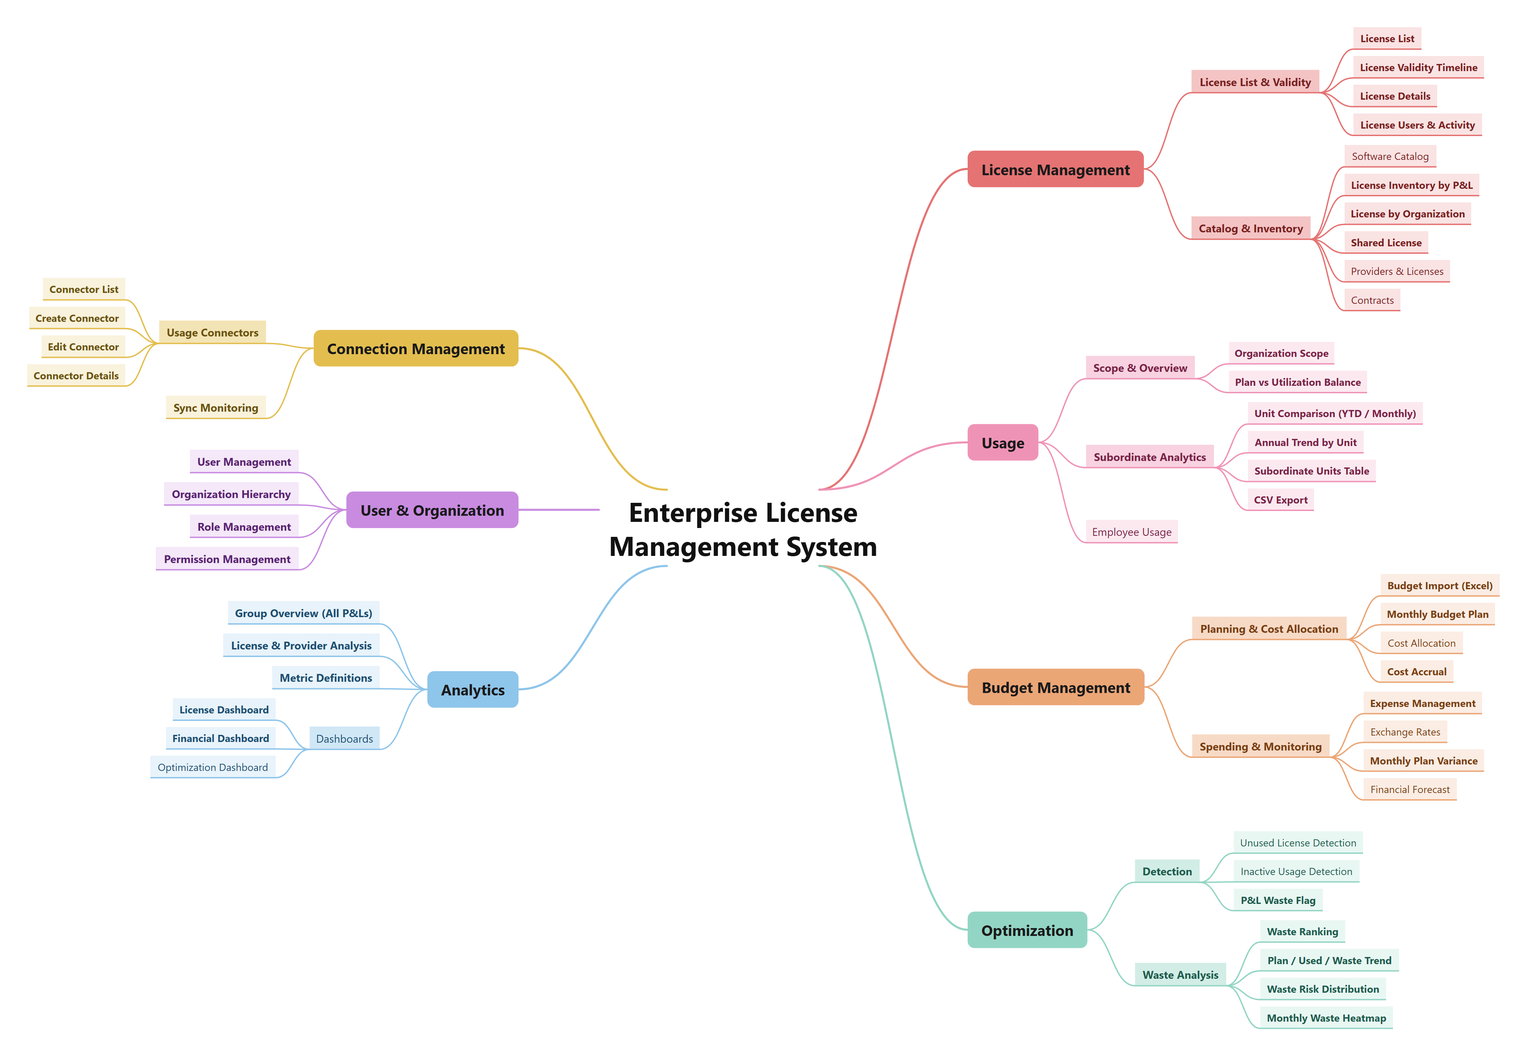
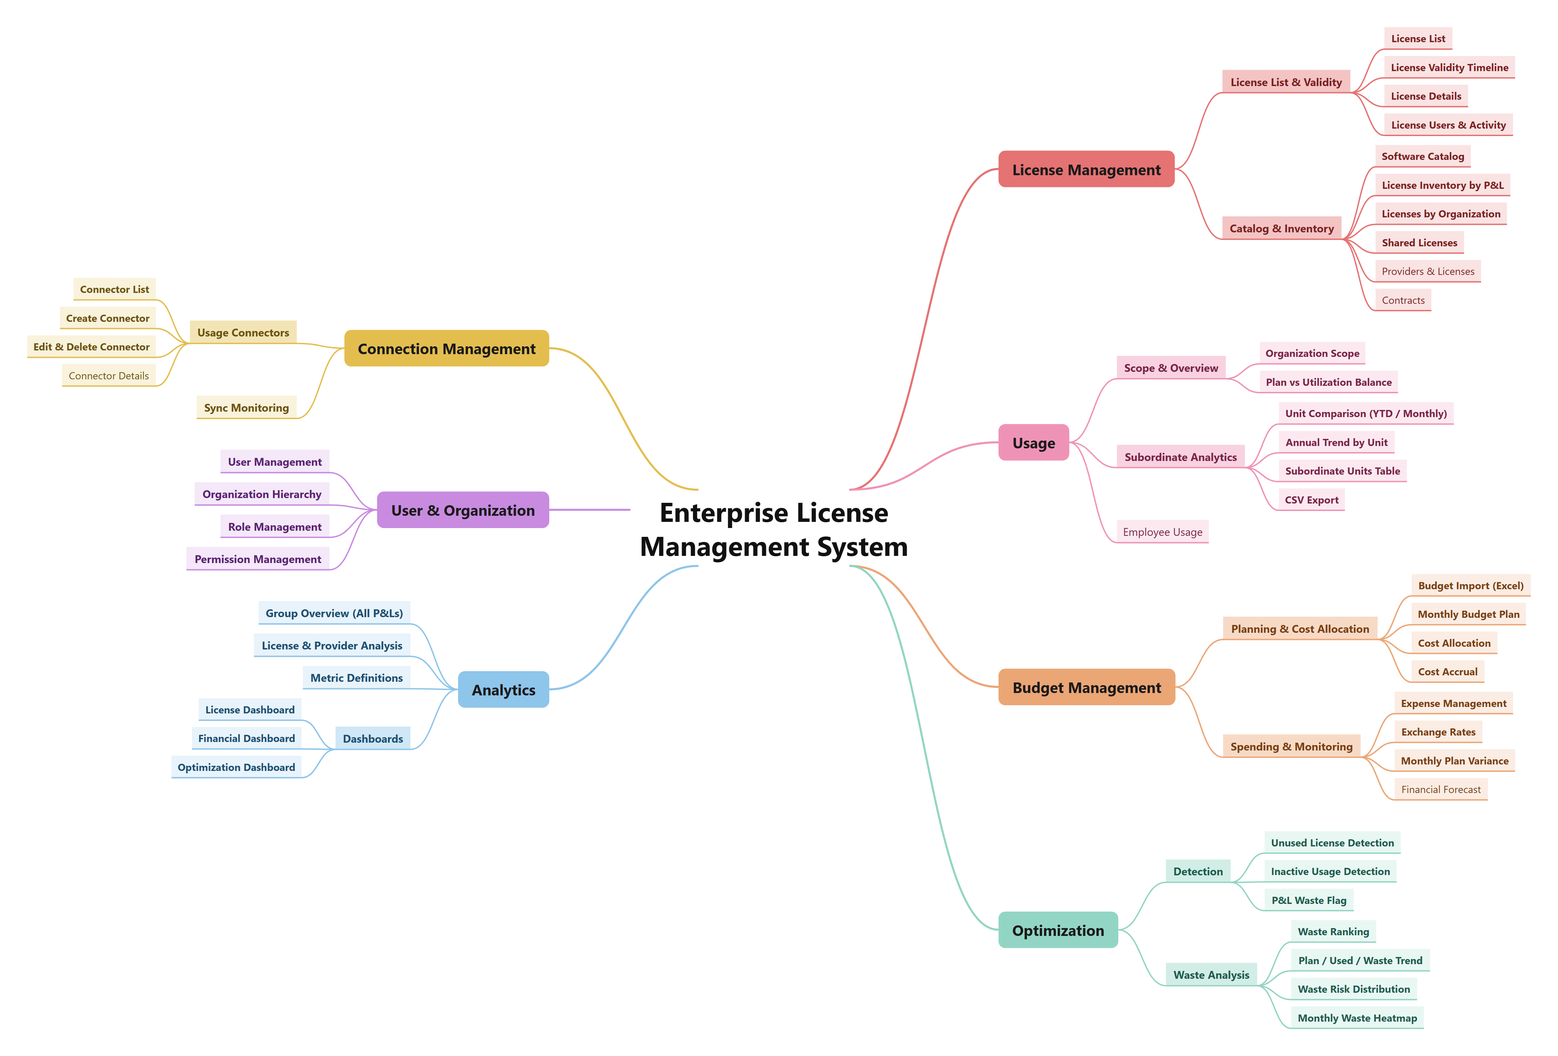
docs: align the mind map with the backlog and the use case docs
The "key" label on the mind map no longer matched the backlog priorities:
five Must-have leaves were plain and the Could-have Connector Details was
bold. Bold now means Must- or Should-have and plain means Could-have, set
as an XMind bold style instead of a "key" label, so XMind shows the same
emphasis as the exported image. Three leaves follow their use case names:
Licenses by Organization, Shared Licenses, Edit & Delete Connector.

The epic table in docs/01 follows the map's structure, the bold meaning is
written down, and README and docs/03 say the self-service stories US23 and
US24 are not on the map. The use case tables and specifications in README
and docs/02, and the feature rows in docs/08, follow the map order. The
collection coverage note no longer cites the parked UC12 and retired UC17.

diff --git a/docs/diagrams/ve_mindmap.py b/docs/diagrams/ve_mindmap.py
@@ -3,7 +3,8 @@
 Chạy trong thư mục docs/diagrams:  python ve_mindmap.py
 Ra: docs/mindmap.png (render SVG bằng Chrome headless, tỉ lệ 2x).
 Bố cục theo kiểu XMind Map: nửa đầu các nhánh bên phải (trên xuống), phần còn lại bên trái (dưới lên),
-nên đọc theo chiều kim đồng hồ đúng thứ tự trong file. Topic có nhãn 'key' được tô đậm.
+nên đọc theo chiều kim đồng hồ đúng thứ tự trong file. Topic in đậm trong XMind (fo:font-weight bold) cũng in đậm
+trong ảnh: lá in đậm là use case Must/Should-have, lá chữ thường là Could-have (docs/03-invest-requirements.md).
 Cần Windows (font Segoe UI) và Chrome.
 """
 import html
@@ -52,7 +53,7 @@ class Node:
     def __init__(self, topic, level):
         self.title = topic.get('title', '')
         self.level = min(level, 3)
-        self.bold = level <= 1 or 'key' in topic.get('labels', [])
+        self.bold = level <= 1 or topic.get('style', {}).get('properties', {}).get('fo:font-weight') == 'bold'
         self.children = [Node(t, level + 1) for t in topic.get('children', {}).get('attached', [])]
         size = SIZE[self.level]
         if self.level == 0:

diff --git a/docs/02-use-cases.md b/docs/02-use-cases.md
@@ -122,16 +122,16 @@ The agreed use cases, by mind-map branch. *Demo:* D1 latest Usage & Connector de
 | ID | Use case | What the user can do | Actors | Demo |
 |---|---|---|---|---|
 | | **License Management** | | | |
-| UC01 | Manage Software Catalog | Keep the list of software with its category, and map each license name the connectors report to a software | Staff | — |
 | UC57 | View License List | See every license of the group with its monthly cost, company, allocated / purchased and days to expiry; search, filter by company and expiry, sort, page | Manager | D1 |
 | UC58 | View License Validity Timeline | See each license term on a six-month timeline, move it month by month or back to today, spot licenses about to expire | Manager | D1 |
 | UC59 | View License Details | Open a license: cost, start and expiry, unallocated or over-allocated seats | Manager | D1 |
 | UC61 | View License Users and Activity | See who holds a license, who is active or inactive, when each last used it and how often; filter, search, export | Manager | R |
-| UC02 | View Providers and Licenses | See the providers the group buys from and, per provider, its licenses and the companies using them | Manager | — |
-| UC04 | View Contracts | See license terms — start, expiry, auto-renew, cost — and those renewing within 30 or 60 days | Manager | — |
+| UC01 | Manage Software Catalog | Keep the list of software with its category, and map each license name the connectors report to a software | Staff | — |
 | UC27 | View License Inventory by P&L | Pick a P&L and see every license it reports, grouped by provider | Manager, Staff | — |
 | UC28 | View Licenses by Organization | Pick any unit and see its licenses, or pick a license and see which units use it | Manager | — |
 | UC47 | Manage Shared Licenses | Mark licenses used by two or more companies as shared, owned by the group; see how their cost is charged back to each company | Staff; Manager reads | — |
+| UC02 | View Providers and Licenses | See the providers the group buys from and, per provider, its licenses and the companies using them | Manager | — |
+| UC04 | View Contracts | See license terms — start, expiry, auto-renew, cost — and those renewing within 30 or 60 days | Manager | — |
 | | **Usage** | | | |
 | UC37 | Navigate Organization Scope | Choose the company or unit to analyse from the tree or the company picker; go down and back up the hierarchy | Manager | D1, D2 |
 | UC08 | View Plan vs Utilization Balance | See Plan, Purchased and Used of the scope, whether it is over budget, and how much of what was bought is used | Manager | D1, D2 |
@@ -193,41 +193,6 @@ Money is in scope (BR-05).
 
 ELMS shows the licenses each P&L reports; nobody enters or grants a license in ELMS (BR-01).
 
-#### UC01 Manage Software Catalog
-
-- **Actor:** Staff (group level) keep the catalog; Staff (own companies) map the license names of their companies; Managers see software and category on every screen
-- **Demo:** none in D1; the React app shows category and subcategory per license
-- **Main flow:**
-  - **Catalog:** one row per software (Software, Provider, Category, Subcategory, Licenses mapped, Companies) → search, filter by provider and category.
-  - Create or edit a software: name, provider, category, subcategory. Categories and subcategories are a list kept here, e.g. *Productivity › Office & Collaboration*, *DevOps › Source Control*.
-  - **Mapping:** the license names the connectors report (License name, Provider, Companies, Mapped to) → filter *Not mapped* → choose the software for a name; ELMS suggests the software of the same provider whose name matches best → the mapping applies to that license name from every company of that provider.
-  - **Applications from BCA:** the application names BCA reports (Application, Employees using it, Mapped to) are mapped to a software the same way, so Track Employee Usage (UC32) can tell an application in use without a license and the license holders who never open the application.
-- **Example:** Company A reports *Microsoft 365 E3*, Company B *M365 E3*, Company C *Microsoft 365 E5*: all three map to *Microsoft 365* (*Productivity › Office & Collaboration*); the License Dashboard then counts them under one software and one category.
-- **Alternative:** a new license name from a connector → "Not mapped" and grouped under *Uncategorized* until mapped (BR-38); a mapping changed → recorded with who, old and new value (BR-15), and every screen follows it, history included; a software with mapped licenses → cannot be deleted, only merged into another; a category in use → cannot be deleted; a Staff member of one company → maps only the license names their companies report
-- **Result:** every license and every BCA application carries software, category, and subcategory, used by the License Dashboard (UC15), the analysis by license (UC44), employee usage (UC32), and the filters; the catalog never changes a source (BR-01)
-
-#### UC27 View License Inventory by P&L
-
-- **Actor:** Manager (own units), Staff (own companies — to check what the connectors deliver)
-- **Main flow:** choose a P&L → table of every license it reports, grouped by provider (License, Provider, License type, Purchased, Assigned, Used, Purchased cost, Status, Expiry date, Data date) → search, filter by license type, provider, status → open a license: its fields from the connector, holders, and the units it belongs to
-- **Alternative:** the P&L has no connector or no successful run → "No data yet", never an empty inventory (BR-04); a license not yet linked to the catalog → shown with the name the P&L gave and marked "Not mapped"; a figure the P&L does not report → `Unknown`
-- **Result:** read-only; one list of what a P&L uses, without visiting the P&L
-
-#### UC28 View Licenses by Organization
-
-- **Actor:** Manager (own units)
-- **Main flow:** choose a unit at any level (P&L, block, department, project) → licenses used by that unit (License, Provider, License type, Purchased, Assigned, Used, Cost) → open a license to see its split over the units below → switch to the opposite view: choose a license → which P&Ls, blocks, departments, and projects use it
-- **Alternative:** a license or holder that cannot be placed in a unit → counted under "Unknown unit" of the nearest known level, so totals still add up (BR-21); a Manager choosing a unit outside their scope → `403`
-- **Result:** read-only; every license is visible per company, block, department, and project
-
-#### UC47 Manage Shared Licenses
-
-- **Actor:** Staff (group level) marks and edits; Manager (own units) reads the share of their units
-- **Main flow:** table of shared licenses — licenses used by two or more companies (License, Provider, Purchased, Allocated, Monthly cost, Companies using it, Term, Source connector) → licenses whose holders belong to two or more companies are proposed as *Possibly shared* → Staff confirm: the owner unit becomes the group (BR-26) → open a shared license: the charge-back per company — seats held, share of cost, Used, Wasted — and *Unallocated*, the unassigned seats left with the group → a Manager sees the share of their units
-- **Example:** GitHub Enterprise, 1,000 seats, 100 million VND a month (100,000 a seat). Company A holds 500 seats, B 300; 200 seats are not assigned. A is charged 50 million a month, B 30 million; the 20 million of the 200 free seats sit in *Unallocated* under the group and are the group's waste. If 50 of A's seats are `Inactive`, 5 million of A's share is A's waste.
-- **Alternative:** a license whose holders all belong to one company → not proposed; Staff unmark a shared license → it goes back to the P&L of its connector; marking or unmarking changes the open months only, closed months keep their owner; the same license reported by two connectors → "Also reported by <company>", Staff pick the source, counted once; a holder that cannot be placed → *Unknown unit* (BR-21); a holder who moves to another company → charged to the old company up to the transfer date and to the new one after it (BR-27)
-- **Result:** each company's figures include its share of every shared license; the group plans each shared license with one line per P&L that uses it, so each P&L's Plan includes its share (BR-26); the free seats are the group's cost and waste; nothing changes at the provider (BR-01)
-
 #### UC57 View License List
 
 - **Actor:** Manager (own units)
@@ -284,6 +249,41 @@ ELMS shows the licenses each P&L reports; nobody enters or grants a license in E
   - allocated above purchased → the holders beyond the purchased quantity are marked (BR-34);
   - a Manager → only holders in their units; the others counted as "Outside your scope: n" (BR-16);
 - **Result:** read-only; the counts equal Allocated in UC57; the inactive holders feed UC11
+
+#### UC01 Manage Software Catalog
+
+- **Actor:** Staff (group level) keep the catalog; Staff (own companies) map the license names of their companies; Managers see software and category on every screen
+- **Demo:** none in D1; the React app shows category and subcategory per license
+- **Main flow:**
+  - **Catalog:** one row per software (Software, Provider, Category, Subcategory, Licenses mapped, Companies) → search, filter by provider and category.
+  - Create or edit a software: name, provider, category, subcategory. Categories and subcategories are a list kept here, e.g. *Productivity › Office & Collaboration*, *DevOps › Source Control*.
+  - **Mapping:** the license names the connectors report (License name, Provider, Companies, Mapped to) → filter *Not mapped* → choose the software for a name; ELMS suggests the software of the same provider whose name matches best → the mapping applies to that license name from every company of that provider.
+  - **Applications from BCA:** the application names BCA reports (Application, Employees using it, Mapped to) are mapped to a software the same way, so Track Employee Usage (UC32) can tell an application in use without a license and the license holders who never open the application.
+- **Example:** Company A reports *Microsoft 365 E3*, Company B *M365 E3*, Company C *Microsoft 365 E5*: all three map to *Microsoft 365* (*Productivity › Office & Collaboration*); the License Dashboard then counts them under one software and one category.
+- **Alternative:** a new license name from a connector → "Not mapped" and grouped under *Uncategorized* until mapped (BR-38); a mapping changed → recorded with who, old and new value (BR-15), and every screen follows it, history included; a software with mapped licenses → cannot be deleted, only merged into another; a category in use → cannot be deleted; a Staff member of one company → maps only the license names their companies report
+- **Result:** every license and every BCA application carries software, category, and subcategory, used by the License Dashboard (UC15), the analysis by license (UC44), employee usage (UC32), and the filters; the catalog never changes a source (BR-01)
+
+#### UC27 View License Inventory by P&L
+
+- **Actor:** Manager (own units), Staff (own companies — to check what the connectors deliver)
+- **Main flow:** choose a P&L → table of every license it reports, grouped by provider (License, Provider, License type, Purchased, Assigned, Used, Purchased cost, Status, Expiry date, Data date) → search, filter by license type, provider, status → open a license: its fields from the connector, holders, and the units it belongs to
+- **Alternative:** the P&L has no connector or no successful run → "No data yet", never an empty inventory (BR-04); a license not yet linked to the catalog → shown with the name the P&L gave and marked "Not mapped"; a figure the P&L does not report → `Unknown`
+- **Result:** read-only; one list of what a P&L uses, without visiting the P&L
+
+#### UC28 View Licenses by Organization
+
+- **Actor:** Manager (own units)
+- **Main flow:** choose a unit at any level (P&L, block, department, project) → licenses used by that unit (License, Provider, License type, Purchased, Assigned, Used, Cost) → open a license to see its split over the units below → switch to the opposite view: choose a license → which P&Ls, blocks, departments, and projects use it
+- **Alternative:** a license or holder that cannot be placed in a unit → counted under "Unknown unit" of the nearest known level, so totals still add up (BR-21); a Manager choosing a unit outside their scope → `403`
+- **Result:** read-only; every license is visible per company, block, department, and project
+
+#### UC47 Manage Shared Licenses
+
+- **Actor:** Staff (group level) marks and edits; Manager (own units) reads the share of their units
+- **Main flow:** table of shared licenses — licenses used by two or more companies (License, Provider, Purchased, Allocated, Monthly cost, Companies using it, Term, Source connector) → licenses whose holders belong to two or more companies are proposed as *Possibly shared* → Staff confirm: the owner unit becomes the group (BR-26) → open a shared license: the charge-back per company — seats held, share of cost, Used, Wasted — and *Unallocated*, the unassigned seats left with the group → a Manager sees the share of their units
+- **Example:** GitHub Enterprise, 1,000 seats, 100 million VND a month (100,000 a seat). Company A holds 500 seats, B 300; 200 seats are not assigned. A is charged 50 million a month, B 30 million; the 20 million of the 200 free seats sit in *Unallocated* under the group and are the group's waste. If 50 of A's seats are `Inactive`, 5 million of A's share is A's waste.
+- **Alternative:** a license whose holders all belong to one company → not proposed; Staff unmark a shared license → it goes back to the P&L of its connector; marking or unmarking changes the open months only, closed months keep their owner; the same license reported by two connectors → "Also reported by <company>", Staff pick the source, counted once; a holder that cannot be placed → *Unknown unit* (BR-21); a holder who moves to another company → charged to the old company up to the transfer date and to the new one after it (BR-27)
+- **Result:** each company's figures include its share of every shared license; the group plans each shared license with one line per P&L that uses it, so each P&L's Plan includes its share (BR-26); the free seats are the group's cost and waste; nothing changes at the provider (BR-01)
 
 #### UC02 View Providers and Licenses
 

diff --git a/docs/08-feature-list.md b/docs/08-feature-list.md
@@ -18,13 +18,13 @@ Status: **Kept** — unchanged; **Changed** — changed by this revision; **New*
 | F04 | Validity timeline: six-month window, ‹ Today ›, today line, colour by expiry bucket, final 7 days striped, hover card | UC58 | Manager | D1 | New |
 | F05 | License details dialog: cost, start, expiry, expiry status, unallocated or over-allocated quantity | UC59 | Manager | D1 | New |
 | F06 | License users: Active / Inactive / Not monitored counts, holder table with last used, days used against working days as a bar; search, sort, paging, CSV | UC61 | Manager | R | New |
+| F76 | Software catalog: software, provider, category and subcategory; create, edit, merge | UC01 | Staff | M | New |
+| F77 | License and BCA application name mapping to the catalog: *Not mapped* filter, suggestions by provider and name, one mapping for every company; unmapped names under *Uncategorized* | UC01 | Staff | M | New |
 | F07 | License inventory per P&L, grouped by provider, with cost | UC27 | Manager, Staff | UC, D1 | Changed |
 | F08 | Licenses per organization unit and units per license | UC28 | Manager | UC | Kept |
 | F09 | Shared licenses (used by two or more companies): owned by the group, planned by the group per P&L, cost charged back to each company by the seats its people hold, unassigned seats in *Unallocated* of the group; *Possibly shared* proposals | UC47 | Staff, Manager | M | New |
 | F10 | Providers and their licenses per company, view only, from connectors | UC02 | Manager | UC, M | Changed |
 | F11 | Contracts (license terms), view only: start, expiry, auto-renew, cost, renewal filter | UC04 | Manager | UC | Changed |
-| F76 | Software catalog: software, provider, category and subcategory; create, edit, merge | UC01 | Staff | M | New |
-| F77 | License and BCA application name mapping to the catalog: *Not mapped* filter, suggestions by provider and name, one mapping for every company; unmapped names under *Uncategorized* | UC01 | Staff | M | New |
 
 ### Usage
 
@@ -62,9 +62,9 @@ Status: **Kept** — unchanged; **Changed** — changed by this revision; **New*
 | F36 | Cost accrual by month with rounding and month close | UC42 | Manager, Staff | M | New |
 | F37 | Accrual export for finance | UC42 | Manager, Staff | M | New |
 | F38 | Expenses with invoice and CSV import | UC07 | Staff | UC | Kept |
+| F80 | Exchange rates: rate per currency from a date, rate of the invoice date applied, corrections only for open months | UC62 | Staff | M | New |
 | F39 | Monthly plan variance | UC34 | Manager | UC | Kept |
 | F40 | Spending forecast | UC09 | Manager | UC | Kept |
-| F80 | Exchange rates: rate per currency from a date, rate of the invoice date applied, corrections only for open months | UC62 | Staff | M | New |
 
 ### Optimization
 
@@ -117,9 +117,9 @@ Status: **Kept** — unchanged; **Changed** — changed by this revision; **New*
 | F69 | Test before save | UC55 | Staff | UC | Kept |
 | F70 | Edit connector from the provider row: form filled in, credential optional unless provider or authentication changes | UC60 | Staff | D1 | New |
 | F71 | Reconfiguring a connector (company, provider, authentication, API URL) sets its licenses back to `Pending`; kept licenses keep ID and status otherwise | UC60 | Staff | D1 | New |
+| F79 | Delete a connector: confirmation naming its licenses, sync stops, licenses inactive, collected data kept for past months | UC60 | Staff | M | New |
 | F72 | Connector details drawer | UC56 | Staff | D1 v1 | New |
 | F73 | Sync monitoring, rerun, change the interval; pause and resume, with `Paused` licenses and every skipped run recorded as a `Paused` sync run | UC26 | Staff | UC | Changed |
-| F79 | Delete a connector: confirmation naming its licenses, sync stops, licenses inactive, collected data kept for past months | UC60 | Staff | M | New |
 
 ### Self-service
 

diff --git a/docs/01-research-top-down.md b/docs/01-research-top-down.md
@@ -148,7 +148,7 @@ Pipeline principles:
 
 ## 6. Functional decomposition (Epic → Feature)
 
-The epics are the seven branches of the agreed mind map; each leaf is one use case.
+The epics are the seven branches of the agreed mind map; each leaf is one use case. Bold leaves are Must- and Should-have use cases, plain leaves Could-have ([INVEST requirements](03-invest-requirements.md)). The two self-service use cases every role has, View My Licenses (UC23) and Login / Logout (UC24), are not on the map.
 
 ![ELMS mind map](mindmap.png)
 
@@ -158,16 +158,17 @@ The epics are the seven branches of the agreed mind map; each leaf is one use ca
 | | Catalog & inventory | Software Catalog (UC01), Inventory by P&L (UC27), Licenses by Organization (UC28), Shared Licenses (UC47), Providers and Licenses (UC02), Contracts (UC04) |
 | E2 Usage | Scope & overview | Organization Scope (UC37), Plan vs Utilization Balance (UC08) |
 | | Subordinate analytics | Unit Comparison (UC48), Annual Trend (UC49), Units Table (UC50), CSV Export (UC51) |
-| | Employee usage | Track Employee Usage (UC32) |
+| | | Employee Usage (UC32) |
 | E3 Budget Management | Planning & cost allocation | Budget Import (UC33), Monthly Plan (UC05), Cost Allocation (UC06), Cost Accrual (UC42) |
 | | Spending & monitoring | Expenses (UC07), Exchange Rates (UC62), Plan Variance (UC34), Forecast (UC09) |
 | E4 Optimization | Detection | Unused (UC10), Inactive (UC11), P&L Waste Flag (UC35) |
 | | Waste analysis | Waste Ranking (UC43), Trend (UC52), Risk Distribution (UC53), Monthly Heatmap (UC54) |
-| E5 Analytics | | Group Overview (UC36), License & Provider Analysis (UC44), Metric Definitions (UC45), License, Financial, and Optimization Dashboards (UC15, UC16, UC18) |
+| E5 Analytics | | Group Overview (UC36), License & Provider Analysis (UC44), Metric Definitions (UC45) |
+| | Dashboards | License Dashboard (UC15), Financial Dashboard (UC16), Optimization Dashboard (UC18) |
 | E6 User & Organization | | Users (UC19), Organization Hierarchy (UC20), Roles (UC21), Permissions (UC22) |
 | E7 Connection Management | Usage connectors | List (UC38), Create (UC55), Edit and delete (UC60), Details (UC56) |
-| | Sync monitoring | Monitor Data Synchronization (UC26) |
-| — Self-service | | View My Licenses (UC23), Login / Logout (UC24) |
+| | | Sync Monitoring (UC26) |
+| — Self-service (not on the map) | | View My Licenses (UC23), Login / Logout (UC24) |
 
 ## 7. Scope
 

diff --git a/docs/03-invest-requirements.md b/docs/03-invest-requirements.md
@@ -12,7 +12,7 @@ Each story is small enough to implement and test independently. Authentication, 
 | Negotiable | Layout follows the UI demos but may change; the outcome, permissions, and business rules stay fixed. |
 | Valuable | Every story names the benefit for one role: Employee, Staff, Manager, or Admin. |
 | Estimable | Inputs, outputs, roles, data scope, and failure outcomes are explicit; each story has a story-point estimate. |
-| Small | One mind-map leaf per story; the largest, US33 (budget import with versions and idempotency), is 8 points, every other story is 5 or less. |
+| Small | One mind-map leaf per story (the self-service stories US23 and US24 are not on the map); the largest, US33 (budget import with versions and idempotency), is 8 points, every other story is 5 or less. |
 | Testable | Every story has observable Given/When/Then criteria with concrete figures, including rules that tie figures across screens. |
 
 ## Product backlog
